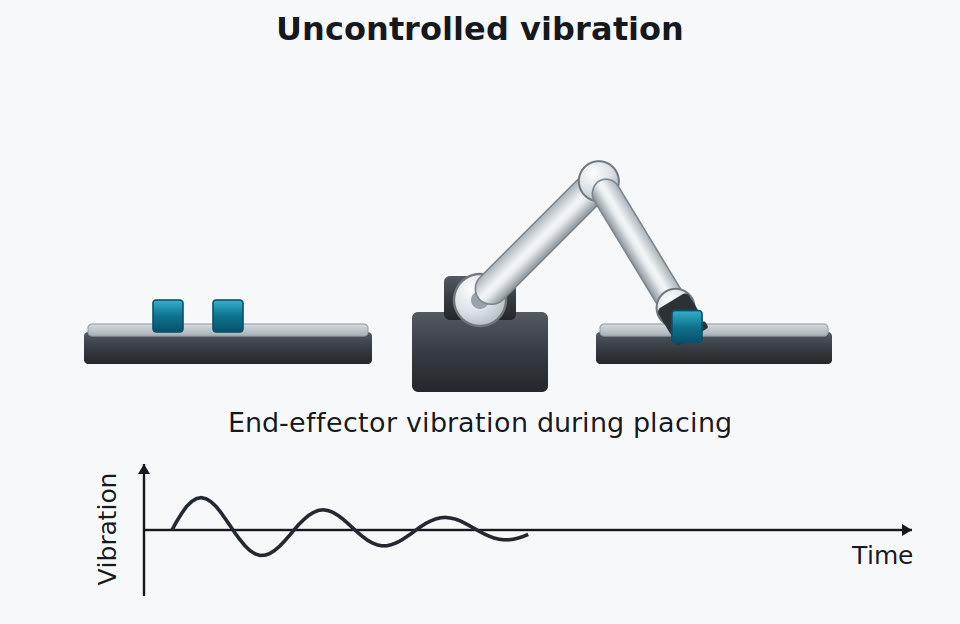
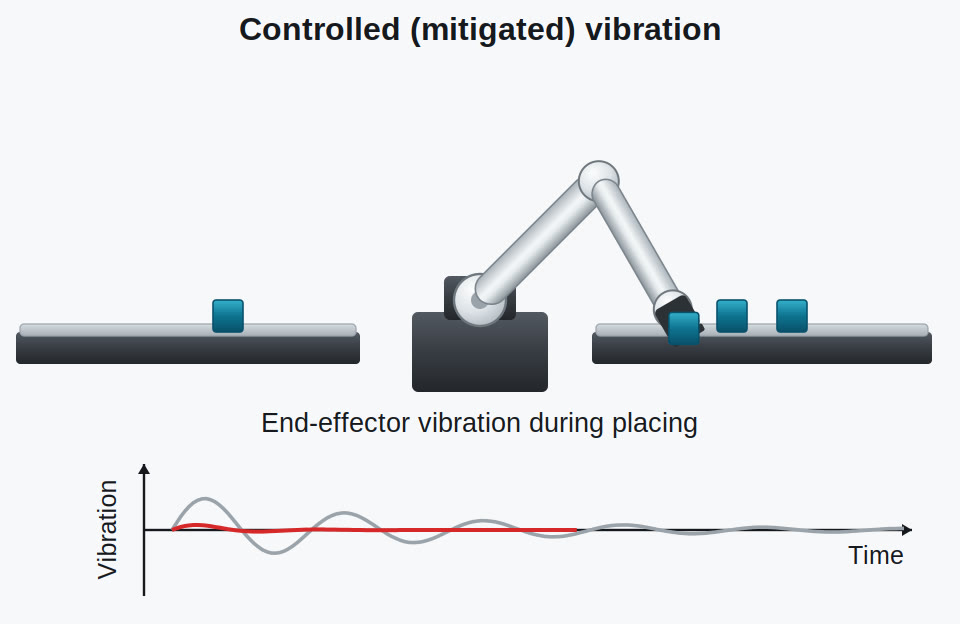
changes

diff --git a/assets/style.css b/assets/style.css
@@ -64,6 +64,21 @@ h1,h2,h3{font-family:var(--font-body); line-height:1.25; color:var(--ink); font-
 .v-cap{font-family:var(--font-body); fill:#15191d;}
 .v-u{font-family:var(--font-body); fill:#222831;}
 .v-c{font-family:var(--font-body); fill:#d62828;}
+.rec-hint{color:var(--slate); font-size:.92rem; margin:.2rem 0 0;}
+.recog{display:flex; flex-direction:column; gap:.55rem; margin-top:1rem; max-width:780px;}
+.rec{border:1px solid var(--line); border-radius:9px; background:#fff;}
+.rec-static{padding:.6rem .85rem; display:flex; gap:.55rem; align-items:flex-start;}
+.rec-static>span{flex:1;}
+.rec>summary{padding:.6rem .85rem; cursor:pointer; display:flex; gap:.55rem; align-items:center; list-style:none;}
+.rec>summary::-webkit-details-marker{display:none;}
+.rec>summary>span:not(.rec-cue){flex:1;}
+.rec-cue{font-size:.78rem; color:var(--accent); border:1px solid var(--line); border-radius:999px; padding:.12rem .55rem; white-space:nowrap;}
+.rec[open]>summary .rec-cue{background:var(--accent); color:#fff; border-color:var(--accent);}
+.rec-body{padding:0 .85rem .85rem; display:flex; flex-direction:column; gap:.6rem; align-items:flex-start;}
+.rec-body img{max-width:100%; border-radius:7px; border:1px solid var(--line);}
+.rec-body iframe{width:100%; max-width:552px; height:600px; border:0; border-radius:7px;}
+.rec-link{font-size:.9rem; color:var(--accent); text-decoration:none;}
+.rec-link:hover{text-decoration:underline;}
 .rb-axis{stroke:var(--line); stroke-width:1;}
 
 section{padding:2.6rem 0;}

diff --git a/cv.html b/cv.html
@@ -27,8 +27,8 @@
   <div style="text-align:right;"><div class="cv-contact">Corvallis, OR &middot; [phone redacted]<br>[email redacted]<br><a href="https://orcid.org/[phone redacted]">ORCID [phone redacted]</a></div><div style="margin-top:.7rem;"><a class="btn btn-primary" href="/assets/Kaan_Bahtiyar_CV.pdf" download>Download PDF</a></div></div></div>
   <h2>Summary</h2><p style="color:#39434b;">PhD candidate in precision motion control, machining dynamics, and mechatronic systems for advanced manufacturing. I develop intelligent control and automation to improve the accuracy, productivity, and autonomy of next-generation manufacturing systems. Author of publications in CIRP and ASME journals, presenter at ASME and ASPE meetings, and co-inventor on a pending patent.</p>
   <h2>Education</h2>
-  <div class="entry"><div class="top"><span class="where">Oregon State University, Ph.D., Robotics</span><span class="when">2022-Present</span></div><div class="what">Advisor: Prof. Burak Sencer &middot; GPA 3.83/4.00</div></div>
-  <div class="entry"><div class="top"><span class="where">Oregon State University, M.Sc., Robotics</span><span class="when">2020-2023</span></div><div class="what">Thesis: detection of chatter vibrations and adaptive spindle-speed optimization in milling &middot; GPA 3.77/4.00</div></div>
+  <div class="entry"><div class="top"><span class="where">Oregon State University, Ph.D., Robotics</span><span class="when">2022-Present</span></div><div class="what">Advisor: Prof. Burak Sencer</div></div>
+  <div class="entry"><div class="top"><span class="where">Oregon State University, M.Sc., Robotics</span><span class="when">2020-2023</span></div><div class="what">Thesis: detection of chatter vibrations and adaptive spindle-speed optimization in milling</div></div>
   <div class="entry"><div class="top"><span class="where">Istanbul Technical University, B.Sc., Control &amp; Automation Engineering</span><span class="when">2017-2020</span></div><div class="what">Ranked 3rd in department</div></div>
   <div class="entry"><div class="top"><span class="where">Istanbul Technical University, B.Sc., Mechanical Engineering</span><span class="when">2014-2019</span></div></div>
   <h2>Technical Skills</h2>
@@ -37,9 +37,9 @@
   <h2>Experience</h2>
   <div class="entry"><div class="top"><span class="where">Graduate Research Assistant, Oregon State University</span><span class="when">2020-Present</span></div><ul><li>Developed a learning-based feedforward strategy for an actuated inertial damper, reducing peak vibration 87% on a feed-drive testbed under actuator stroke/force constraints.</li><li>Characterized cross-axis coupling on a 3-axis machine tool and built trajectory pre-filtering that cut axis-coupled vibration 80%, into the sub-micron (about 1 um) range.</li><li>Developed data-driven chatter detection and an optimal real-time vibration-feedback spindle-speed controller, eliminating chatter and cutting forced vibration up to 90% versus conventional control.</li><li>Developed an adaptive tool-eccentricity compensation method via feed modulation, cutting peak cutting-force variation 86% and supporting a pending patent.</li><li>Trained and mentored graduate and undergraduate students; guided two M.Sc. theses.</li></ul></div>
   <div class="entry"><div class="top"><span class="where">Graduate Teaching Assistant, Oregon State University</span><span class="when">2020-Present</span></div><div class="what">Computer Control of Manufacturing Processes (senior); Precision Motion Generation (graduate); Digital Control of Mechatronic Systems.</div></div>
-  <div class="entry"><div class="top"><span class="where">R&amp;D Senior Design Project, Arcelik, Istanbul</span><span class="when">2018-2019</span></div><div class="what">Parametric 3D CAD in Siemens NX with a particle-swarm multi-objective optimization framework in MATLAB for automated weight and structural exploration.</div></div>
-  <h2>Honors</h2><ul><li>ASPE Student Challenge, 1st place (3-person team), 40th Annual Meeting, 2025</li><li>Thomas A. Dow Student Scholarship, ASPE, 39th Annual Meeting, 2024</li><li>Young Research Award, JSPE, ICPE 2024, Sendai, Japan</li><li>NSF Travel Awards, MSEC 2024 and NAMRC 2022</li><li>Honor List and ranked 3rd in department, Istanbul Technical University, 2020</li></ul>
-  <h2>Patents &amp; Service</h2><ul><li>Control Device, Machine Tool System, and Method for Controlling Machine Tool. Sencer, Bahtiyar, Bozcu. Patent application pending (2025).</li><li>Journal reviewer, ASME Journal of Manufacturing Science and Engineering.</li></ul>
+  <div class="entry"><div class="top"><span class="where">R&amp;D Senior Design Project, Arcelik, Istanbul</span><span class="when">2018-2019</span></div><div class="what">University-industry cooperation project. Built parametric 3D CAD of a washing-machine platform in Siemens NX and used NX Journaling to link MATLAB, Excel, and NX into a fully automated particle-swarm multi-objective optimization loop for weight and structural performance exploration.</div></div>
+  <h2>Honors</h2><div class="recog"><details class="rec"><summary><svg class="medal" viewBox="0 0 24 24" aria-hidden="true"><polygon points="8,3 11,3 12.6,11 9.2,12" fill="#8fcdd9"/><polygon points="16,3 13,3 11.4,11 14.8,12" fill="#8fcdd9"/><circle cx="12" cy="15.5" r="6.2" fill="#0e7490"/><path d="M12 11.5 L12.999 14.125 L15.804 14.264 L13.617 16.025 L14.351 18.736 L12 17.2 L9.649 18.736 L10.383 16.025 L8.196 14.264 L11.001 14.125 Z" fill="#fff"/></svg><span>1st place, ASPE Student Challenge (2025)</span><span class="rec-cue">view</span></summary><div class="rec-body"><iframe src="https://www.linkedin.com/embed/feed/update/urn:li:activity:7393730640225058816" frameborder="0" allowfullscreen title="ASPE Student Challenge on LinkedIn"></iframe><a class="rec-link" href="https://www.linkedin.com/feed/update/urn:li:activity:7393730640225058816/" target="_blank" rel="noopener">Watch on LinkedIn</a><a class="rec-link" href="https://aspe.net/2025-student-challenge/" target="_blank" rel="noopener">Visit the ASPE Student Challenge</a></div></details><details class="rec"><summary><svg class="medal" viewBox="0 0 24 24" aria-hidden="true"><polygon points="8,3 11,3 12.6,11 9.2,12" fill="#8fcdd9"/><polygon points="16,3 13,3 11.4,11 14.8,12" fill="#8fcdd9"/><circle cx="12" cy="15.5" r="6.2" fill="#0e7490"/><path d="M12 11.5 L12.999 14.125 L15.804 14.264 L13.617 16.025 L14.351 18.736 L12 17.2 L9.649 18.736 L10.383 16.025 L8.196 14.264 L11.001 14.125 Z" fill="#fff"/></svg><span>Thomas A. Dow Student Scholarship, ASPE (2024)</span><span class="rec-cue">view</span></summary><div class="rec-body"><img src="/images/ASPE2024award.png" alt="Thomas A. Dow Student Scholarship, ASPE (2024)" loading="lazy"><a class="rec-link" href="https://aspe.net/student-scholarships/" target="_blank" rel="noopener">Visit ASPE student scholarships</a></div></details><details class="rec"><summary><svg class="medal" viewBox="0 0 24 24" aria-hidden="true"><polygon points="8,3 11,3 12.6,11 9.2,12" fill="#8fcdd9"/><polygon points="16,3 13,3 11.4,11 14.8,12" fill="#8fcdd9"/><circle cx="12" cy="15.5" r="6.2" fill="#0e7490"/><path d="M12 11.5 L12.999 14.125 L15.804 14.264 L13.617 16.025 L14.351 18.736 L12 17.2 L9.649 18.736 L10.383 16.025 L8.196 14.264 L11.001 14.125 Z" fill="#fff"/></svg><span>Young Research Award, JSPE, ICPE 2024 (Sendai, Japan)</span><span class="rec-cue">view</span></summary><div class="rec-body"><img src="/images/ICPE2024award.png" alt="Young Research Award, JSPE, ICPE 2024 (Sendai, Japan)" loading="lazy"></div></details><details class="rec"><summary><svg class="medal" viewBox="0 0 24 24" aria-hidden="true"><polygon points="8,3 11,3 12.6,11 9.2,12" fill="#8fcdd9"/><polygon points="16,3 13,3 11.4,11 14.8,12" fill="#8fcdd9"/><circle cx="12" cy="15.5" r="6.2" fill="#0e7490"/><path d="M12 11.5 L12.999 14.125 L15.804 14.264 L13.617 16.025 L14.351 18.736 L12 17.2 L9.649 18.736 L10.383 16.025 L8.196 14.264 L11.001 14.125 Z" fill="#fff"/></svg><span>Ranked 3rd in department, Control &amp; Automation Eng., ITU (2020)</span><span class="rec-cue">view</span></summary><div class="rec-body"><img src="/images/Rank3rd.png" alt="Ranked 3rd in department, Control &amp; Automation Eng., ITU (2020)" loading="lazy"></div></details><div class="rec rec-static"><svg class="medal" viewBox="0 0 24 24" aria-hidden="true"><polygon points="8,3 11,3 12.6,11 9.2,12" fill="#8fcdd9"/><polygon points="16,3 13,3 11.4,11 14.8,12" fill="#8fcdd9"/><circle cx="12" cy="15.5" r="6.2" fill="#0e7490"/><path d="M12 11.5 L12.999 14.125 L15.804 14.264 L13.617 16.025 L14.351 18.736 L12 17.2 L9.649 18.736 L10.383 16.025 L8.196 14.264 L11.001 14.125 Z" fill="#fff"/></svg><span>Co-inventor on a pending patent for machine-tool control, filed with an industrial partner (2025)</span></div><div class="rec rec-static"><svg class="medal" viewBox="0 0 24 24" aria-hidden="true"><polygon points="8,3 11,3 12.6,11 9.2,12" fill="#8fcdd9"/><polygon points="16,3 13,3 11.4,11 14.8,12" fill="#8fcdd9"/><circle cx="12" cy="15.5" r="6.2" fill="#0e7490"/><path d="M12 11.5 L12.999 14.125 L15.804 14.264 L13.617 16.025 L14.351 18.736 L12 17.2 L9.649 18.736 L10.383 16.025 L8.196 14.264 L11.001 14.125 Z" fill="#fff"/></svg><span>NSF Travel Awards, MSEC 2024 and NAMRC 2022</span></div></div>
+  <h2>Patents &amp; Service</h2><ul><li>Control Device, Machine Tool System, and Method for Controlling Machine Tool. Sencer, Bahtiyar, Bozcu. Patent application pending (2025).</li><li>Journal reviewer for the ASME Journal of Manufacturing Science and Engineering and <a href="https://www.sciencedirect.com/journal/measurement" target="_blank" rel="noopener">Measurement</a> (Elsevier).</li></ul>
   <h2>Publications</h2><p style="color:#39434b;">Five journal articles (CIRP Annals, CIRP JMST, ASME JMSE, MM Science, Manufacturing Letters) and six conference papers. <a href="/publications.html">See the full list with summaries.</a></p>
 </div></section></main>
 <footer><div class="wrap foot-in">

diff --git a/index.html b/index.html
@@ -56,7 +56,7 @@
   <div class="result-line"><span class="rk">Result</span><span class="rnum">90%</span><span class="rdesc">lower vibration vs. conventional</span></div></a><a class="card" href="/projects/chatter-detection.html">
   <div class="body"><h3>Chatter detection and monitoring in milling</h3><p>Lightweight time-domain and PCA-based algorithms that flag chatter early at low computational cost, the sensing layer behind the closed-loop spindle controller.</p><div class="tags"><span>Manufacturing Letters</span><span>NAMRC50</span></div></div>
   <div class="result-line"><span class="rk">Result</span><span class="rnum">Real-time</span><span class="rdesc">low-cost early detection</span></div></a></div></div></section>
-<section><div class="wrap"><h2 class="sec-title">Recognition</h2><ul class="highlights"><li><svg class="medal" viewBox="0 0 24 24" aria-hidden="true"><polygon points="8,3 11,3 12.6,11 9.2,12" fill="#8fcdd9"/><polygon points="16,3 13,3 11.4,11 14.8,12" fill="#8fcdd9"/><circle cx="12" cy="15.5" r="6.2" fill="#0e7490"/><path d="M12 11.5 L12.999 14.125 L15.804 14.264 L13.617 16.025 L14.351 18.736 L12 17.2 L9.649 18.736 L10.383 16.025 L8.196 14.264 L11.001 14.125 Z" fill="#fff"/></svg><span><a href="https://aspe.net/2025-student-challenge/">1st place, ASPE Student Challenge (2025)</a></span></li><li><svg class="medal" viewBox="0 0 24 24" aria-hidden="true"><polygon points="8,3 11,3 12.6,11 9.2,12" fill="#8fcdd9"/><polygon points="16,3 13,3 11.4,11 14.8,12" fill="#8fcdd9"/><circle cx="12" cy="15.5" r="6.2" fill="#0e7490"/><path d="M12 11.5 L12.999 14.125 L15.804 14.264 L13.617 16.025 L14.351 18.736 L12 17.2 L9.649 18.736 L10.383 16.025 L8.196 14.264 L11.001 14.125 Z" fill="#fff"/></svg><span><a href="https://aspe.net/student-scholarships/">Thomas A. Dow Scholarship, ASPE (2024)</a></span></li><li><svg class="medal" viewBox="0 0 24 24" aria-hidden="true"><polygon points="8,3 11,3 12.6,11 9.2,12" fill="#8fcdd9"/><polygon points="16,3 13,3 11.4,11 14.8,12" fill="#8fcdd9"/><circle cx="12" cy="15.5" r="6.2" fill="#0e7490"/><path d="M12 11.5 L12.999 14.125 L15.804 14.264 L13.617 16.025 L14.351 18.736 L12 17.2 L9.649 18.736 L10.383 16.025 L8.196 14.264 L11.001 14.125 Z" fill="#fff"/></svg><span>Young Research Award, ICPE 2024, Japan</span></li><li><svg class="medal" viewBox="0 0 24 24" aria-hidden="true"><polygon points="8,3 11,3 12.6,11 9.2,12" fill="#8fcdd9"/><polygon points="16,3 13,3 11.4,11 14.8,12" fill="#8fcdd9"/><circle cx="12" cy="15.5" r="6.2" fill="#0e7490"/><path d="M12 11.5 L12.999 14.125 L15.804 14.264 L13.617 16.025 L14.351 18.736 L12 17.2 L9.649 18.736 L10.383 16.025 L8.196 14.264 L11.001 14.125 Z" fill="#fff"/></svg><span>Co-inventor on a pending patent for machine-tool control, filed with an industrial partner (2025)</span></li><li><svg class="medal" viewBox="0 0 24 24" aria-hidden="true"><polygon points="8,3 11,3 12.6,11 9.2,12" fill="#8fcdd9"/><polygon points="16,3 13,3 11.4,11 14.8,12" fill="#8fcdd9"/><circle cx="12" cy="15.5" r="6.2" fill="#0e7490"/><path d="M12 11.5 L12.999 14.125 L15.804 14.264 L13.617 16.025 L14.351 18.736 L12 17.2 L9.649 18.736 L10.383 16.025 L8.196 14.264 L11.001 14.125 Z" fill="#fff"/></svg><span>Publications in CIRP Annals, CIRP JMST, ASME JMSE, and Manufacturing Letters</span></li></ul><div class="awards"><figure><img src="/images/ASPE2024award.png" alt=""><figcaption>Thomas A. Dow Scholarship, ASPE 2024</figcaption></figure><figure><img src="/images/ICPE2024award.png" alt=""><figcaption>Young Research Award, ICPE 2024 (Sendai, Japan)</figcaption></figure><figure><img src="/images/Rank3rd.png" alt=""><figcaption>Ranked 3rd in department, Control &amp; Automation Eng., ITU</figcaption></figure></div></div></section>
+<section><div class="wrap"><h2 class="sec-title">Recognition</h2><p class="rec-hint">Items tagged <span class="rec-cue">view</span> open a photo or video when clicked.</p><div class="recog"><details class="rec"><summary><svg class="medal" viewBox="0 0 24 24" aria-hidden="true"><polygon points="8,3 11,3 12.6,11 9.2,12" fill="#8fcdd9"/><polygon points="16,3 13,3 11.4,11 14.8,12" fill="#8fcdd9"/><circle cx="12" cy="15.5" r="6.2" fill="#0e7490"/><path d="M12 11.5 L12.999 14.125 L15.804 14.264 L13.617 16.025 L14.351 18.736 L12 17.2 L9.649 18.736 L10.383 16.025 L8.196 14.264 L11.001 14.125 Z" fill="#fff"/></svg><span>1st place, ASPE Student Challenge (2025)</span><span class="rec-cue">view</span></summary><div class="rec-body"><iframe src="https://www.linkedin.com/embed/feed/update/urn:li:activity:7393730640225058816" frameborder="0" allowfullscreen title="ASPE Student Challenge on LinkedIn"></iframe><a class="rec-link" href="https://www.linkedin.com/feed/update/urn:li:activity:7393730640225058816/" target="_blank" rel="noopener">Watch on LinkedIn</a><a class="rec-link" href="https://aspe.net/2025-student-challenge/" target="_blank" rel="noopener">Visit the ASPE Student Challenge</a></div></details><details class="rec"><summary><svg class="medal" viewBox="0 0 24 24" aria-hidden="true"><polygon points="8,3 11,3 12.6,11 9.2,12" fill="#8fcdd9"/><polygon points="16,3 13,3 11.4,11 14.8,12" fill="#8fcdd9"/><circle cx="12" cy="15.5" r="6.2" fill="#0e7490"/><path d="M12 11.5 L12.999 14.125 L15.804 14.264 L13.617 16.025 L14.351 18.736 L12 17.2 L9.649 18.736 L10.383 16.025 L8.196 14.264 L11.001 14.125 Z" fill="#fff"/></svg><span>Thomas A. Dow Student Scholarship, ASPE (2024)</span><span class="rec-cue">view</span></summary><div class="rec-body"><img src="/images/ASPE2024award.png" alt="Thomas A. Dow Student Scholarship, ASPE (2024)" loading="lazy"><a class="rec-link" href="https://aspe.net/student-scholarships/" target="_blank" rel="noopener">Visit ASPE student scholarships</a></div></details><details class="rec"><summary><svg class="medal" viewBox="0 0 24 24" aria-hidden="true"><polygon points="8,3 11,3 12.6,11 9.2,12" fill="#8fcdd9"/><polygon points="16,3 13,3 11.4,11 14.8,12" fill="#8fcdd9"/><circle cx="12" cy="15.5" r="6.2" fill="#0e7490"/><path d="M12 11.5 L12.999 14.125 L15.804 14.264 L13.617 16.025 L14.351 18.736 L12 17.2 L9.649 18.736 L10.383 16.025 L8.196 14.264 L11.001 14.125 Z" fill="#fff"/></svg><span>Young Research Award, JSPE, ICPE 2024 (Sendai, Japan)</span><span class="rec-cue">view</span></summary><div class="rec-body"><img src="/images/ICPE2024award.png" alt="Young Research Award, JSPE, ICPE 2024 (Sendai, Japan)" loading="lazy"></div></details><details class="rec"><summary><svg class="medal" viewBox="0 0 24 24" aria-hidden="true"><polygon points="8,3 11,3 12.6,11 9.2,12" fill="#8fcdd9"/><polygon points="16,3 13,3 11.4,11 14.8,12" fill="#8fcdd9"/><circle cx="12" cy="15.5" r="6.2" fill="#0e7490"/><path d="M12 11.5 L12.999 14.125 L15.804 14.264 L13.617 16.025 L14.351 18.736 L12 17.2 L9.649 18.736 L10.383 16.025 L8.196 14.264 L11.001 14.125 Z" fill="#fff"/></svg><span>Ranked 3rd in department, Control &amp; Automation Eng., ITU (2020)</span><span class="rec-cue">view</span></summary><div class="rec-body"><img src="/images/Rank3rd.png" alt="Ranked 3rd in department, Control &amp; Automation Eng., ITU (2020)" loading="lazy"></div></details><div class="rec rec-static"><svg class="medal" viewBox="0 0 24 24" aria-hidden="true"><polygon points="8,3 11,3 12.6,11 9.2,12" fill="#8fcdd9"/><polygon points="16,3 13,3 11.4,11 14.8,12" fill="#8fcdd9"/><circle cx="12" cy="15.5" r="6.2" fill="#0e7490"/><path d="M12 11.5 L12.999 14.125 L15.804 14.264 L13.617 16.025 L14.351 18.736 L12 17.2 L9.649 18.736 L10.383 16.025 L8.196 14.264 L11.001 14.125 Z" fill="#fff"/></svg><span>Co-inventor on a pending patent for machine-tool control, filed with an industrial partner (2025)</span></div><div class="rec rec-static"><svg class="medal" viewBox="0 0 24 24" aria-hidden="true"><polygon points="8,3 11,3 12.6,11 9.2,12" fill="#8fcdd9"/><polygon points="16,3 13,3 11.4,11 14.8,12" fill="#8fcdd9"/><circle cx="12" cy="15.5" r="6.2" fill="#0e7490"/><path d="M12 11.5 L12.999 14.125 L15.804 14.264 L13.617 16.025 L14.351 18.736 L12 17.2 L9.649 18.736 L10.383 16.025 L8.196 14.264 L11.001 14.125 Z" fill="#fff"/></svg><span>NSF Travel Awards, MSEC 2024 and NAMRC 2022</span></div><div class="rec rec-static"><svg class="medal" viewBox="0 0 24 24" aria-hidden="true"><polygon points="8,3 11,3 12.6,11 9.2,12" fill="#8fcdd9"/><polygon points="16,3 13,3 11.4,11 14.8,12" fill="#8fcdd9"/><circle cx="12" cy="15.5" r="6.2" fill="#0e7490"/><path d="M12 11.5 L12.999 14.125 L15.804 14.264 L13.617 16.025 L14.351 18.736 L12 17.2 L9.649 18.736 L10.383 16.025 L8.196 14.264 L11.001 14.125 Z" fill="#fff"/></svg><span>Publications in CIRP Annals, CIRP JMST, ASME JMSE, and Manufacturing Letters</span></div></div></div></section>
 </main>
 
 <footer><div class="wrap foot-in">